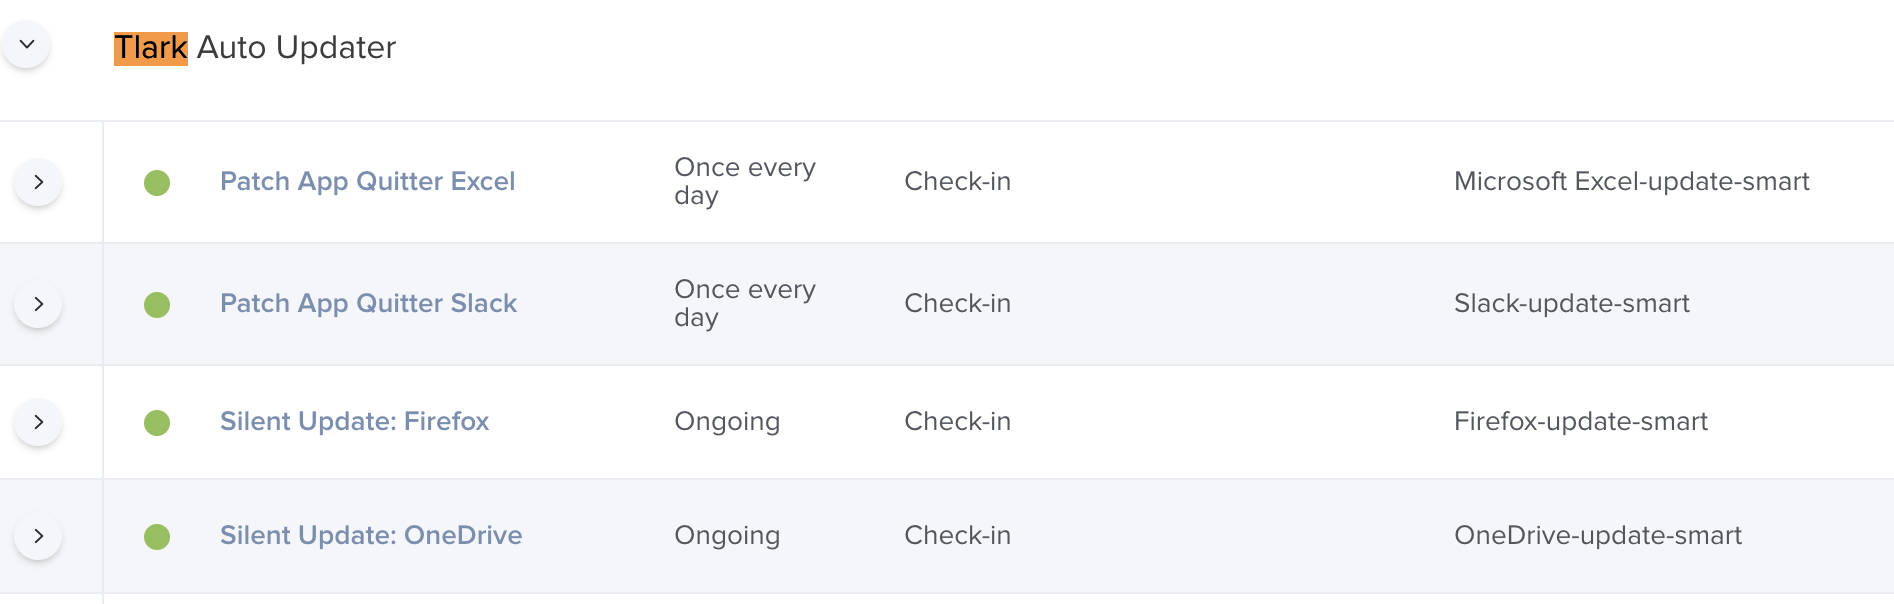
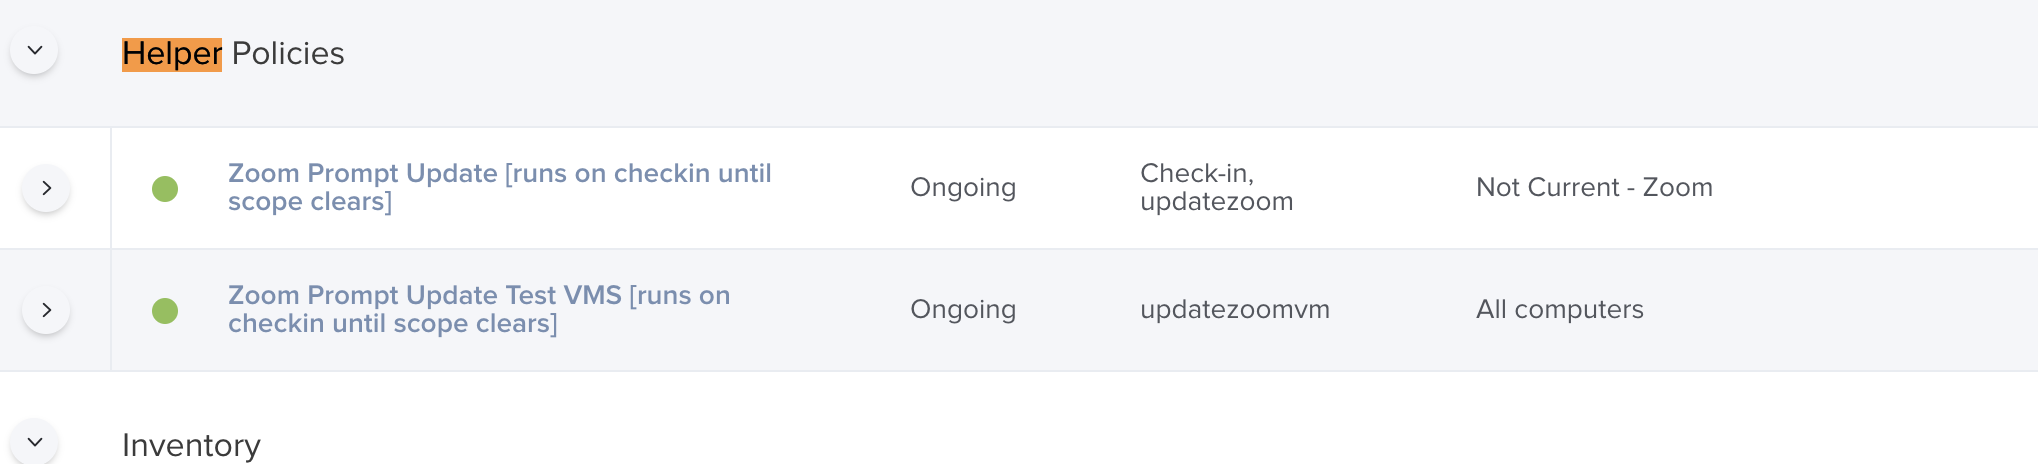
with lots of docs

diff --git a/README.md b/README.md
@@ -6,6 +6,37 @@ Documentation will be in this repo's [Wiki page](https://github.com/t-lark/Auto-
 
 Thanks
 
+# Let's Work Backwards, Manually Make The Helper Policies:
+
+## Graphical Spoiler
+![alt text](policy-categorisation.png)
+Keep your worker policies tidy
+
+![alt text](policy-scriptparams.png)
+With my Fork you can set the following Parameters for `app_quitter.py` see image 
+
+![alt text](policy-scope.png)
+You can cope the JSSI Created SmartGroup
+
+### Explain please
+Helper Policies excecute the policies automatically created by JSSI in a elegant manner.
+
+---
+# https://github.com/zackn9ne/Auto-Update.git
+* **Policy: Silent Update AppName** [silent update.py](https://github.com/t-lark/Auto-Update/blob/master/silent_update.py) Tries to update if app is running just skips it and will try on next check in. You have to put the below in your policy:
+
+1. Put in `$4` BundleID in your JSS
+2. put in `$5 ` The policy-trigger you want eg `jamf policy -event updatethingname` in your JSS
+
+* **Policy: Patch App Quitter AppName** [app quitter.py](https://github.com/t-lark/Auto-Update/blob/master/app_quitter.py) If app is running presents a nice pop up window with branding to ask the user if they wanna quit it and run the updates. If they cancle it will just try on next check in anyway. _What's cool about Patch App Quitter is if the App isn't running it will just update._ You have to put the below in your policy:
+
+1. `$4` com.microsoft.Excel
+2. `$5` true
+3. `$6` Excel
+4. `$7` autopudate-Microsoft Excel
+5. `$8` false
+6. `$9` Companyname + Advisory
+7. `$10` /Library/ADVisory/logonew.png
 # How to utilise this with JSSI?
 JSSI Creates Two Important Dependancies
 ### (1) Policy Side: "Install Latest Thing"
@@ -159,35 +190,3 @@ JSSI Creates Two Important Dependancies
 * `autopkg info AU-Zoom.jss`
 * `autopkg run --post novirus path_to_recipie_override --prefs login_creds_yoursite.plist --key STOP_IF_NO_JSS_UPLOAD=False`
 
-# Manually Make The Helper (policies) for Everything Above:
-
-## Graphical Spoiler
-![alt text](policy-categorisation.png)
-Keep your worker policies tidy
-
-![alt text](policy-scope.png)
-Scope the JSSI Created SmartGroup
-
-![alt text](policy-scriptparams.png)
-Some Parameters for `app_quitter.py` script above
-
-### Explain please
-Helper policies leverage `silent-update.py` script or `app_quitter.py` script accordingly. Put them a category called Helper Policies. These policys execute the automaticaly created policies (the ones created by JSSI, don't touch those or you did something wrong and they won't scale)
-
-
----
-# https://github.com/zackn9ne/Auto-Update.git
-* **Policy: Silent Update AppName** [silent update.py](https://github.com/t-lark/Auto-Update/blob/master/silent_update.py) Tries to update if app is running just skips it and will try on next check in. You have to put the below in your policy:
-
-1. Put in `$4` BundleID in your JSS
-2. put in `$5 ` The policy-trigger you want eg `jamf policy -event updatethingname` in your JSS
-
-* **Policy: Patch App Quitter AppName** [app quitter.py](https://github.com/t-lark/Auto-Update/blob/master/app_quitter.py) If app is running presents a nice pop up window with branding to ask the user if they wanna quit it and run the updates. If they cancle it will just try on next check in anyway. _What's cool about Patch App Quitter is if the App isn't running it will just update._ You have to put the below in your policy:
-
-1. `$4` com.microsoft.Excel
-2. `$5` true
-3. `$6` Excel
-4. `$7` autopudate-Microsoft Excel
-5. `$8` false
-6. `$9` Companyname + Advisory
-7. `$10` /Library/ADVisory/logonew.png
